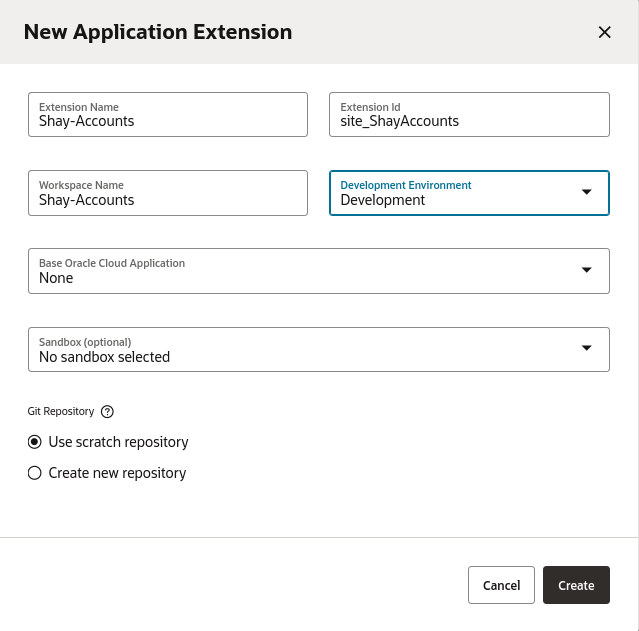
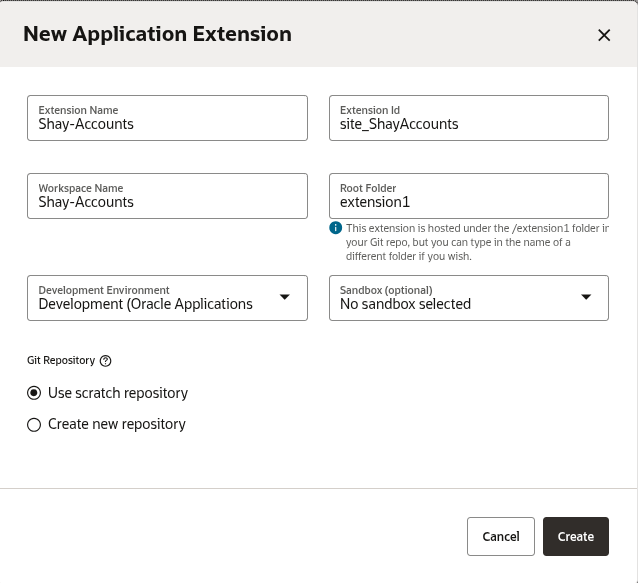
Updated for release 2501 (#373)
* added section to create pages up front.  Modified configure welcome page to match pages being added.

* Updated button section

* Added Account Details page section

* Added Edit screen

* Fixed some errors

* Fixed numbering

* changes for JS action chains

* cleanup unused images

* Made changes for the fixed select template bug

* Peter and Susan changes

* fixed some errors

* changed the name of the 3 application pages and all of the associated images

* Changes to work around a couple bugs in the Redwood template.

* Changes to work around a couple bugs in the Redwood template.

* Removed 'install components section'.  Updated for release 23.10

* Set details form to readonly

* Updated Welcome Page Lab

* Updated edit pages

* updates for 2410

* renamed folders and md files

* added section to change id of event

* updates for 2407, including a known bug

* added instructor led changes to lab 1

* Updated Lab 1

* Updated Lab 1

* Updated Lab 2

* Updated Lab 4

diff --git a/redwood-extensions/createnewextension/createnewextension-instructor-led.md b/redwood-extensions/createnewextension/createnewextension-instructor-led.md
@@ -18,7 +18,7 @@ In this lab, you will:
 
 ## Task 1: Access Visual Builder Studio
 
-Users with [the right roles](https://docs.oracle.com/en/cloud/paas/visual-builder/visualbuilder-administration/set-vb-studio-extend-oracle-cloud-applications.html#GUID-DF0D4F76-D26A-46B5-B8E5-68D7FDD1E475) can access VB Studio from their Oracle Fusion Cloud Applications' TEST instance.
+Users with [the right roles](https://docs.oracle.com/en/cloud/paas/visual-builder/visualbuilder-administration/configure-oracle-cloud-applications-custom-roles.html) can access VB Studio from their Oracle Fusion Cloud Applications' TEST instance.
 
 1. Log in to Oracle Fusion Cloud Applications using the URL and credentials provided by your instructor:
 
@@ -54,7 +54,7 @@ From here you can navigate to all your project's components, including environme
 | --- | --- | --- |
 | Extension Name | YourName-Accounts | To keep the names distinct, use your first name plus the first initial of your last name, as in *MaryC-Accounts* |
 | Development Environment |Choose the option available | Mapped to your SaaS instance|
-| Base Oracle Cloud Application | None | Not needed in this scenario |
+| Root Folder | extension1 | Do not change |
 | Sandbox | No sandbox selected | Not needed in this scenario |
 | Use scratch repository | Check | For now, you can just work in a private Git repository |
 {: title="New App Extension Properties"}

diff --git a/redwood-extensions/createnewextension/createnewextension-cw.md b/redwood-extensions/createnewextension/createnewextension-cw.md
@@ -18,7 +18,7 @@ In this lab, you will:
 
 ## Task 1: Access Visual Builder Studio and Create a Workspace
 
-Users with [the right roles](https://docs.oracle.com/en/cloud/paas/visual-builder/visualbuilder-administration/set-vb-studio-extend-oracle-cloud-applications.html#GUID-DF0D4F76-D26A-46B5-B8E5-68D7FDD1E475) can access VB Studio from their Oracle Fusion Cloud Applications' TEST instance.
+Users with [the right roles](https://docs.oracle.com/en/cloud/paas/visual-builder/visualbuilder-administration/configure-oracle-cloud-applications-custom-roles.html) can access VB Studio from their Oracle Fusion Cloud Applications' TEST instance.
 
 1. Log in to Oracle Fusion Cloud Applications:
 
@@ -51,7 +51,7 @@ Users with [the right roles](https://docs.oracle.com/en/cloud/paas/visual-builde
 | --- | --- | --- |
 | Extension Name | YourName-Accounts | To keep the names distinct, use your first name plus the first initial of your last name, as in *MaryC-Accounts* |
 | Development Environment |Choose the option available | Mapped to your SaaS instance|
-| Base Oracle Cloud Application | None | Not needed in this scenario |
+| Root Folder | extension1 | Do not change |
 | Sandbox | No sandbox selected | Not needed in this scenario |
 | Use scratch repository | Check | For now, you can just work in a private Git repository |
 {: title="New App Extension Properties"}

diff --git a/redwood-extensions/createnewextension/createnewextension.md b/redwood-extensions/createnewextension/createnewextension.md
@@ -19,7 +19,7 @@ In this lab, you will:
 
 ## Task 1: Access Visual Builder Studio and Create a Project
 
-Users with [the right roles](https://docs.oracle.com/en/cloud/paas/visual-builder/visualbuilder-administration/set-vb-studio-extend-oracle-cloud-applications.html#GUID-DF0D4F76-D26A-46B5-B8E5-68D7FDD1E475) can access VB Studio from their Oracle Fusion Cloud Applications' TEST instance.
+Users with [the right roles](https://docs.oracle.com/en/cloud/paas/visual-builder/visualbuilder-administration/configure-oracle-cloud-applications-custom-roles.html) can access VB Studio from their Oracle Fusion Cloud Applications' TEST instance.
 
 1. Log in to Oracle Fusion Cloud Applications:
 
@@ -99,7 +99,7 @@ From here you can navigate to all your project's components, including environme
 | --- | --- | --- |
 | Extension Name | YourName-Accounts | To keep the names distinct, use your first name plus the first initial of your last name, as in *MaryC-Accounts* |
 | Development Environment |Choose the option available | Mapped to your SaaS instance|
-| Base Oracle Cloud Application | None | Not needed in this scenario |
+| Root Folder | extension1 | Do not change |
 | Sandbox | No sandbox selected | Not needed in this scenario |
 | Use scratch repository | Check | For now, you can just work in a private Git repository |
 {: title="New App Extension Properties"}

diff --git a/redwood-extensions/addbuttonsandactions/addbuttonsandactions.md b/redwood-extensions/addbuttonsandactions/addbuttonsandactions.md
@@ -234,7 +234,7 @@ You may now **proceed to the next lab**.
 
 ## Learn More
 
-* [Action Chains](https://docs.oracle.com/en/cloud/paas/visual-builder/visualbuilder-building-appui/work-action-chains.html)
+* [Action Chains](https://docs.oracle.com/en/cloud/paas/visual-builder/visualbuilder-building-appui/jsac-work-javascript-action-chains.html)
 
 ## Acknowledgements
 * **Author** - Shay Shmeltzer, Oracle Cloud Development Tools, September 2022
